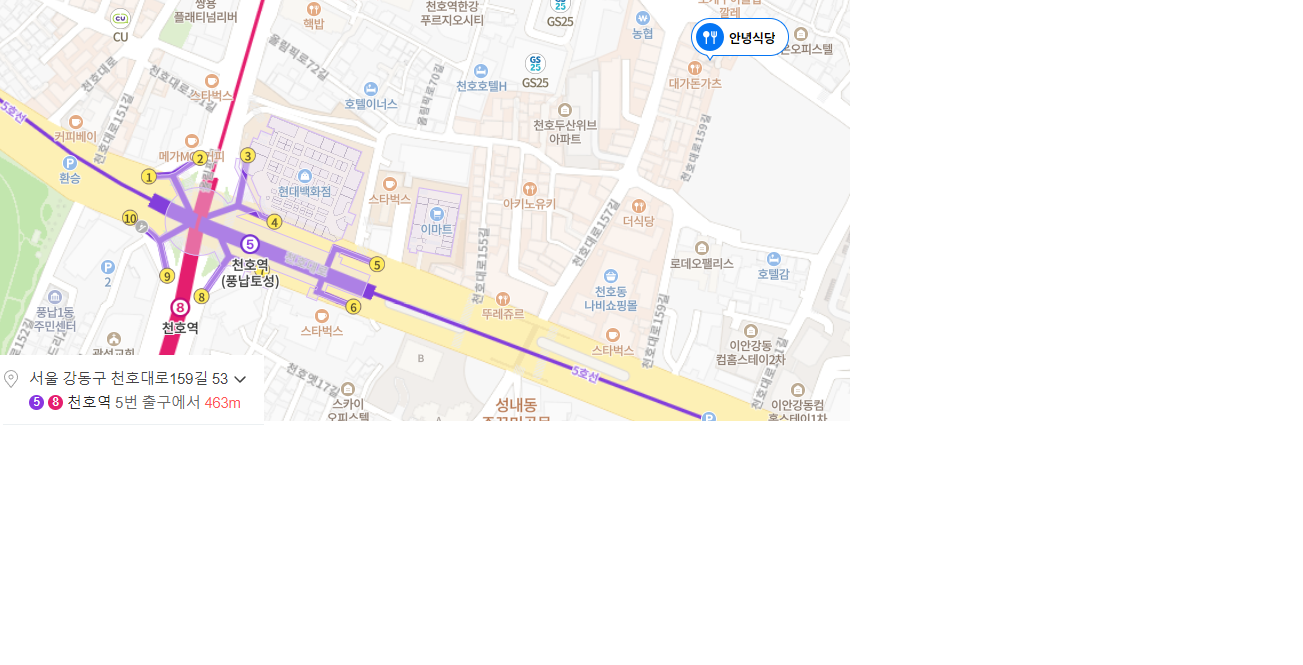
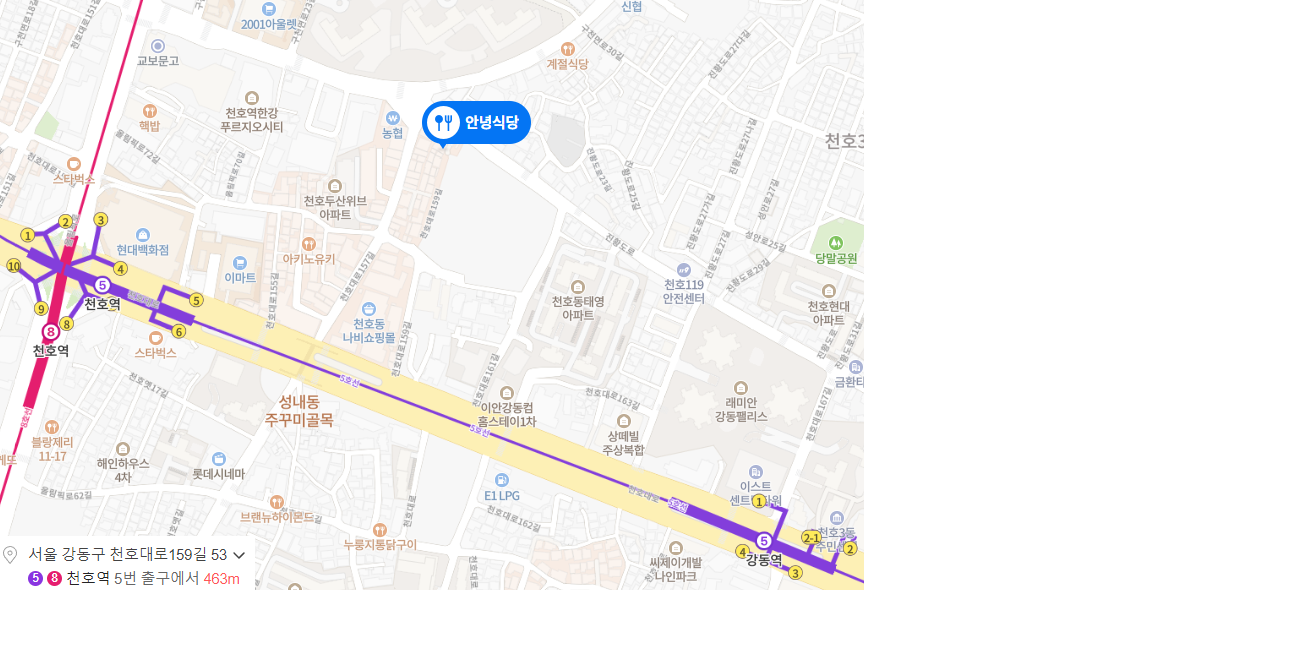
6일

diff --git a/src/main/webapp/resources/css/style.css b/src/main/webapp/resources/css/style.css
@@ -279,20 +279,24 @@ footer nav{
 }
 #detailinput {
     position: absolute;
-    left: 200px;
-    top: 1400px;
+    font-size:25px;
+    left: 309px;
+    top: 1420px;
     background: #606060;
     color: #fff;
     line-height: 42px;
     padding: 0;
     border: none;
-    width: 400px;
+    width: 600px;
+    height:60px;
 }
 #detailinput2{
-	width:400px;
+	width:600px;
+	font-size:25px;
+	height:60px;
 	position: absolute;
-    left: 1150px;
-    top: 1400px;
+    left: 972px;
+    top: 1420px;
     background: #606060;
   	color: #fff;
   	line-height: 42px;
@@ -430,6 +434,19 @@ ul>li {
 	list-style: none
 }
 
+.rvservcice{
+	margin-top:10px;
+}
+.rvservcice1{
+margin-top:10px;
+font-size:25px;
+	
+}
+
+.checkAllBtn{
+font-size:10px;
+}
+
 a {
 	text-decoration: none;
 }
@@ -439,10 +456,21 @@ a {
 	display: block;
 	clear: both;
 }
-
 #joinForm {
-	width: 50%;
-	margin: 0 auto;
+    width: 50%;
+    margin: 0 auto;
+    margin-left: 500px;
+    font-size: 30px;
+	margin-top:100px;
+}
+
+
+#joinForm1 {
+    width: 50%;
+    margin: 0 auto;
+    margin-left: 650px;
+    font-size: 30px;
+	margin-top:100px;
 }
 
 ul.join_box {
@@ -495,7 +523,7 @@ ul.join_box {
 	display: block;
 	width:120%;
 	height: 150%;
-	font-size: 20px;
+	font-size: 25px;
 	text-align: center;
 	line-height: 20px;
 	
@@ -569,8 +597,9 @@ h2 {
 }
 
 .logobox {
-	width: 1400px;
+	width: 600px;
 	height: 350px;
+	margin-left: 60px;
 	margin-bottom: 30px;
 }
 
@@ -581,20 +610,21 @@ h2 {
 
 .logo12box {
 	display: flex;
-	margin-left: 30px;
+	margin-left: 0 auto;
 }
 
 .logo12box li:nth-child(1) {
-	width: 500px;
-	height: 400px;
-	margin-top: 200px;
+    width: 600px;
+    height: 400px;
+    margin-top: 200px;
+    margin-left: 310px;
 }
 
 .logo12box li:nth-child(2) {
-	width: 500px;
-	height: 400px;
-	margin-top: 200px;
-	margin-left: 36px;
+    width: 600px;
+    height: 400px;
+    margin-top: 200px;
+    margin-left: 60px;
 }
 
 .logo12box li:nth-child(1) img {
@@ -609,9 +639,9 @@ h2 {
 
 
 .mapbox {
-    width: 900px;
-    margin-left: 1140px;
-    margin-top: -395px;
+    width: 930px;
+    margin-left: 970px;
+    margin-top: -950px;
 }
 
 .msubbox img {
@@ -620,6 +650,13 @@ h2 {
 }
 
 
+
+.clearfix {
+
+	font-size:15px;
+}
+
+	
 //QnA게시판
 #boardcss_list_add_button_table { 
 	width: 100%; margin: 0 auto 15px;
